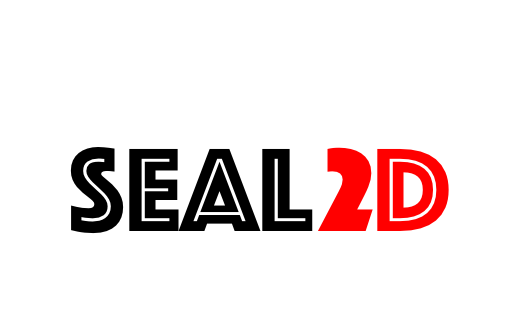
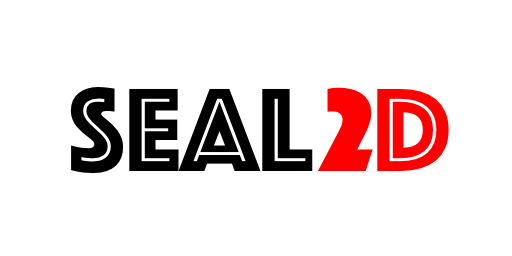
add an api

Changed region(s): [[0.125, 0.3125, 0.875, 0.75], [0.5, 0.3438, 0.5938, 0.5]]

diff --git a/src/s2d_sprite.cpp b/src/s2d_sprite.cpp
@@ -26,9 +26,15 @@
 
 NS_S2D
 
-void sprite::init()
+void sprite::init(const char* tex_file)
 {
+    S2D_ASSERT(tex_file);
+    
     node::init();
+
+    _texture = new texture();
+    _texture->init(tex_file);
+    _size = _texture->_size;
 
     _quad[0].pos.x = 0;
     _quad[0].pos.y = 0;
@@ -37,26 +43,23 @@ void sprite::init()
     _quad[0].color = 0xffffffff;
 
     _quad[1].pos.x = 0;
-    _quad[1].pos.y = 158;
+    _quad[1].pos.y = _size.height;
     _quad[1].uv.u = 0;
     _quad[1].uv.v = MAX_TEX_COORD - MAX_TEX_COORD;
     _quad[1].color = 0xffffffff;
 
-    _quad[2].pos.x = 256;
+    _quad[2].pos.x = _size.width;
     _quad[2].pos.y = 0;
     _quad[2].uv.u = (1 <<16)-1;
     _quad[2].uv.v = MAX_TEX_COORD;
     _quad[2].color = 0xffffffff;
 
-    _quad[3].pos.x = 256;
-    _quad[3].pos.y = 158;
+    _quad[3].pos.x = _size.width;
+    _quad[3].pos.y = _size.height;
 
     _quad[3].uv.u = (1<<16)-1;
     _quad[3].uv.v = MAX_TEX_COORD - MAX_TEX_COORD;
     _quad[3].color = 0xffffffff;
-
-    _texture = new texture();
-    _texture->init("res/seal2d-transparent.png");
 }
 
 void sprite::update(float dt)

diff --git a/src/s2d_context.cpp b/src/s2d_context.cpp
@@ -43,10 +43,6 @@ void context::init(int opengles_version, float width, float height)
     _camera->init_orthographic(width, height);
     _root->init();
 
-    sprite* logo = new sprite();
-    logo->init();
-    _root->add_child(logo);
-    
     _world_view_affine_transform = affine_transform::mk_translate(-width/2, -height/2);
 
     LOGD("context initialized.");

diff --git a/src/s2d_node.h b/src/s2d_node.h
@@ -60,6 +60,17 @@ public:
         _scale.y = sy;
     }
 
+    inline void set_anchor(float ax, float ay)
+    {
+        _anchor.x = ax;
+        _anchor.y = ay;
+    }
+
+    inline void set_rotation(float rotation)
+    {
+        _rotation = rotation;
+    }
+
     inline uint32_t get_zorder()
     {
         return _z_order;

diff --git a/example/hello-world/proj.ios/hello-world/src/entry.cpp b/example/hello-world/proj.ios/hello-world/src/entry.cpp
@@ -4,6 +4,11 @@
 void entry::on_init(context* ctx)
 {
     LOGD("entry:: on_init");
+    sprite* s = new sprite();
+    s->init("res/seal2d-transparent.png");
+    s->set_pos(640/2, 1136/2);
+
+    ctx->get_root()->add_child(s);
 }
 
 void entry::on_pause()

diff --git a/src/s2d_context.h b/src/s2d_context.h
@@ -50,6 +50,11 @@ public:
     void pause();
     void resume();
     void shutdown();
+
+    inline node* get_root()
+    {
+        return _root;
+    }
     
 public:
     app_protocol*    _app;

diff --git a/src/s2d_sprite.h b/src/s2d_sprite.h
@@ -32,7 +32,7 @@ NS_S2D
 
 class sprite: public node {
 public:
-    void init() override;
+    void init(const char* tex_file);
     void update(float dt) override;
 
 protected:

diff --git a/src/s2d_node.cpp b/src/s2d_node.cpp
@@ -40,7 +40,7 @@ void node::init()
 
     _scale = {1.0, 1.0};
     _rotation = 0;
-    _anchor = {0, 0};
+    _anchor = {0.5, 0.5};
     _size = {0, 0};
 
     _z_order = 0;
